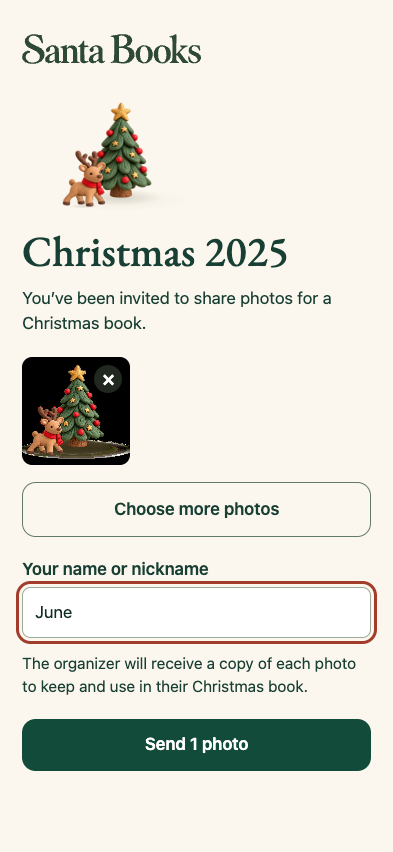
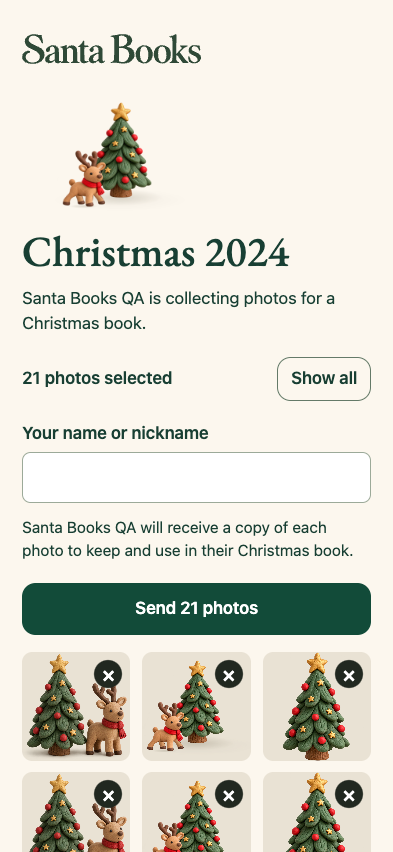
Keep Santa guest photo batches easy to send and resume

diff --git a/public/photos/photos.css b/public/photos/photos.css
@@ -13,6 +13,8 @@ button:disabled { opacity: .6; }
 :focus-visible { outline: 3px solid #a23c2b; outline-offset: 3px; }
 #selection { list-style: none; display: grid; grid-template-columns: repeat(3,minmax(0,1fr)); gap: .7rem; padding: 0; }
 #selection:empty { display: none; }
+#selection-summary { display: flex; align-items: center; justify-content: space-between; gap: 1rem; margin: 1rem 0 .7rem; font-weight: 600; }
+#selection-toggle { width: auto; min-height: 44px; padding: .45rem .75rem; background: transparent; border: 1px solid #647a68; color: #183f33; white-space: nowrap; }
 #selection li { min-width: 0; position: relative; }
 #selection img { width: 100%; aspect-ratio: 1; border-radius: .6rem; object-fit: cover; display: block; background: #e9e2d4; }
 #selection button { position: absolute; right: 0; top: 0; width: 44px; height: 44px; min-height: 44px; padding: 0; color: white; background: radial-gradient(circle, #212820 0 43%, transparent 47%); font-size: 21px; }
@@ -21,5 +23,6 @@ label { display: block; font-weight: 600; margin-top: 1.2rem; }
 input[type=text] { margin-top: .3rem; padding: .7rem; border: 1px solid #9caa99; background: white; border-radius: .5rem; width: 100%; color: #122d22; }
 #name-error { color: #8a2b22; }
 #review p { font-size: .92rem; }
+#status:not(:empty) { border-left: 4px solid #b88932; padding: .65rem .8rem; background: #f4ead6; color: #122d22; font-weight: 600; white-space: pre-line; }
 #choose.secondary, #again, #reload { background: transparent; border: 1px solid #647a68; color: #183f33; }
 [hidden] { display: none !important; }

diff --git a/public/photos/index.html b/public/photos/index.html
@@ -20,10 +20,13 @@
     <h1 id="occasion">Christmas photos</h1>
     <p id="intro">Opening your invitation…</p>
     <noscript>Turn on JavaScript to choose and send photos.</noscript>
+    <p id="status" role="status" aria-live="polite" aria-atomic="true"></p>
     <form id="request" hidden>
       <input id="files" type="file" multiple accept="image/*" hidden>
-      <ul id="selection" aria-label="Selected photos"></ul>
-      <button type="button" id="choose">Choose photos</button>
+      <div id="selection-summary" hidden>
+        <span id="selection-count" aria-live="polite"></span>
+        <button type="button" id="selection-toggle" aria-controls="selection" aria-expanded="false" hidden>Show all</button>
+      </div>
       <div id="review" hidden>
         <label for="name">Your name or nickname</label>
         <input id="name" type="text" autocomplete="given-name" autocapitalize="words" required aria-describedby="name-error">
@@ -31,8 +34,9 @@
         <p id="consent"></p>
         <button id="send" type="submit">Send photos</button>
       </div>
+      <ul id="selection" aria-label="Selected photos"></ul>
+      <button type="button" id="choose">Choose photos</button>
     </form>
-    <p id="status" role="status" aria-live="polite" aria-atomic="true"></p>
     <button id="again" type="button" hidden>Send more photos</button>
     <button id="reload" type="button" hidden>Try again</button>
   </main>

diff --git a/README.md b/README.md
@@ -40,7 +40,7 @@ The Santa Books app shares `/photos/#production/<token>` or `/photos/#staging/<t
 
 Set `SANTA_PHOTO_PROJECT_PRODUCTION` or `SANTA_PHOTO_PROJECT_STAGING` to the respective Santa Supabase **public project reference** in the website build environment, then build. Missing environments disable only their invitations. Do not put API keys or service credentials in these variables. The browser contacts only the relay selected in the built configuration. It never takes a destination URL from a guest link. Guest photos go directly to the Santa transfer service. The website host does not receive the uploads.
 
-The guest page keeps full selections in memory until the tab is closed. The browser decodes supported still images, preserves aspect ratio and orientation, strips embedded metadata including location, and sends a JPEG up to 5,200 pixels on the long edge. For a trusted JPEG, it carries forward only the original capture date in a fresh date-only tag. For a format the phone cannot open, the guest can choose a JPEG or PNG copy. A retry reuses the same submission ID and bytes. The receipt shows the pickup deadline returned by the relay. Deploy the Santa app backend and verify cleanup before enabling a website environment.
+The guest page initially shows six thumbnails. Pending selections stay in memory for retry. The page releases them when the batch finishes or the request closes. The browser decodes supported still images, preserves aspect ratio and orientation, strips embedded metadata including location, and sends a JPEG up to 5,200 pixels on the long edge. For a trusted JPEG, it carries forward only the original capture date in a fresh date-only tag. For a format the phone cannot open, the guest can choose a JPEG or PNG copy. A retry reuses the same submission ID and bytes. Rate-limited uploads automatically resume at most twice for the current photo after the relay’s `Retry-After` delay. A successful upload resets that limit for the next photo. The receipt distinguishes acknowledged uploads from photos that still need attention and shows the pickup deadline returned by the relay. Deploy the Santa app backend and verify cleanup before enabling a website environment.
 
 
 ## Information pages
